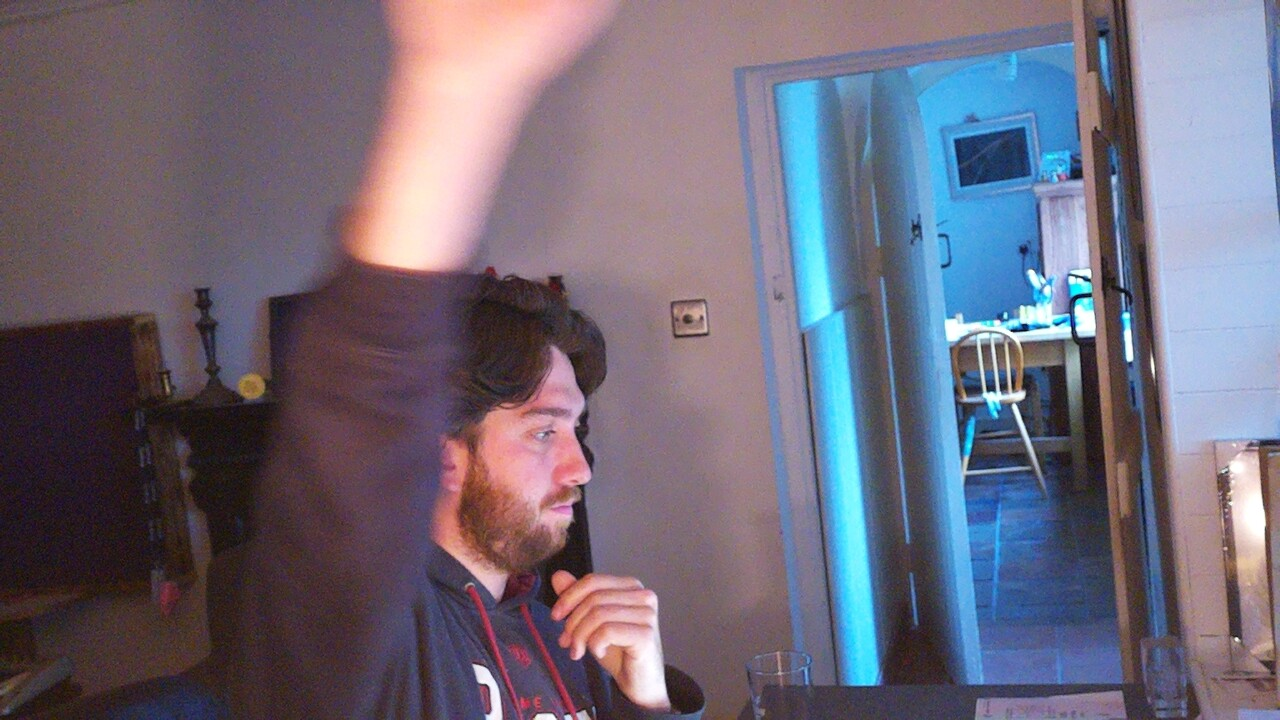
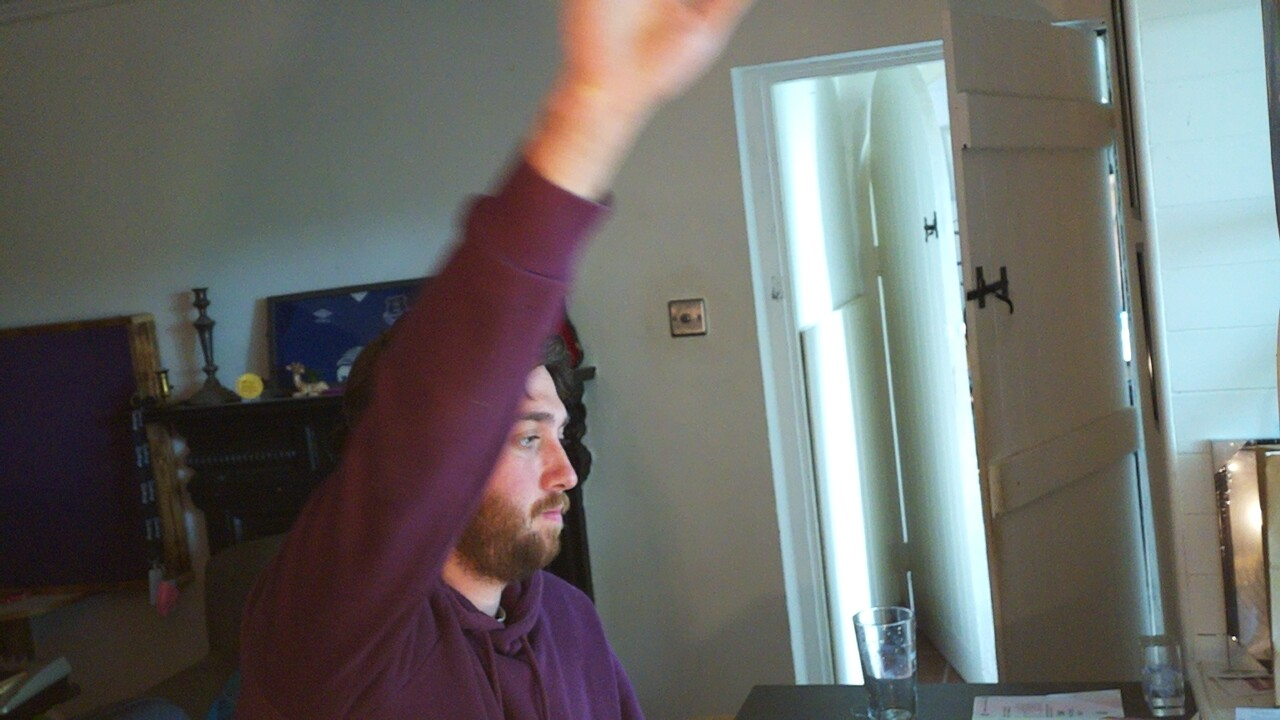
Trying to combine movement log and flask app

diff --git a/templates/index.html b/templates/index.html
@@ -10,5 +10,7 @@
 <figure class="image">
   <img src='{{pic}}' />
 </figure>
+
+<p>'{{movment}}'</p>
 </body>
 </html>

diff --git a/main.py b/main.py
@@ -9,6 +9,7 @@ from pi_camera_capture import capture_photo
 import BlynkLib
 from flask_web_api import sunset_time
 from cloudinary_upload import upload_image
+from datetime import datetime
 #https://github.com/UselessMnemonic/OpenWiz
 sense = SenseHat()
 camera = Picamera2()
@@ -18,6 +19,7 @@ camera.start()
 
 
 blynk = BlynkLib.Blynk("1GpojHp7VRzUa6ZnrKNetsc_MfdzXPnW")
+
 
 
 
@@ -35,13 +37,14 @@ enter_alarm_set = 0
 alarm_minutes = "00"
 alarm_hours ="00"
 alarm_on_time = "00:00"
+alarm_active = "0"
+alarm_step = 0
+last_alarm_update = 0
 
 #lamp_on_time = sunset_time()
 lamp_on_time = "00:00:00"
 # blynk.virtual_write(5,lamp_on_time) #labels the time of sunset/active lamp
-alarm_active = "0"
-alarm_step = 0
-last_alarm_update = 0
+
 event = None
 
 @blynk.on("V1")
@@ -95,8 +98,20 @@ def handle_v9_write(value):
     enter_alarm_set = value[0]
     print(enter_alarm_set)
   
+
+def log_movement(check_event_type):
+
+    if check_event_type.get("secureMode") == True:
+        with open('static/movement_log.txt','a') as f: #https://www.pythontutorial.net/python-basics/python-write-text-file/
+            f.write(f"SECURITY BREACH at {datetimeNow.strftime("%m/%d/%Y, %H:%M:%S")}\n")#https://www.programiz.com/python-programming/datetime/strftime
+
+    else:
+        with open('static/movement_log.txt','a') as f: #https://www.pythontutorial.net/python-basics/python-write-text-file/
+            f.write(f"Movement Detected at {datetimeNow.strftime("%m/%d/%Y, %H:%M:%S")}\n")#https://www.programiz.com/python-programming/datetime/strftime
+
 while True:
-        now = time.time()
+        datetimeNow = datetime.now() #for movement log
+        now = time.time() #for time processing
         blynk.run()  # Process Blynk events        
         #time.sleep(.01) 
 
@@ -167,8 +182,8 @@ while True:
             if event != None:
                 alarm_active = False
                 sendUDP(setLightState(event))
-
-            #sendUDP()
+                log_movement(event)
+                
             time.sleep(0.1)
 
 

diff --git a/flask_web_api.py b/flask_web_api.py
@@ -34,10 +34,14 @@ def sunset_time():
 @app.route("/",methods=['GET'])
 def home():
     image = url_for('static',filename='last_visitor.jpg')
-    return render_template('index.html', pic=image)
+    movement = url_for('static',filename='movment_log.txt')
+    return render_template('index.html', pic=image, movement=movement) #https://www.youtube.com/shorts/u53hez-dWn8
+
+
+
 
 
 def run_flask():
     app.run(host='0.0.0.0', port=5000, debug=True)
 
-#run_flask()
+run_flask()

diff --git a/rules_engine.py b/rules_engine.py
@@ -47,6 +47,8 @@ def processMotionEvent(motion, secureMode,temp):
                 "r" : 255} #returns that there's been an alert and captures video also turns light red
     return None
 
+
+
 def processTemp(temp,humidity):
     kelvin = (1.5*temp) * humidity * 1.5
     #print(kelvin)
